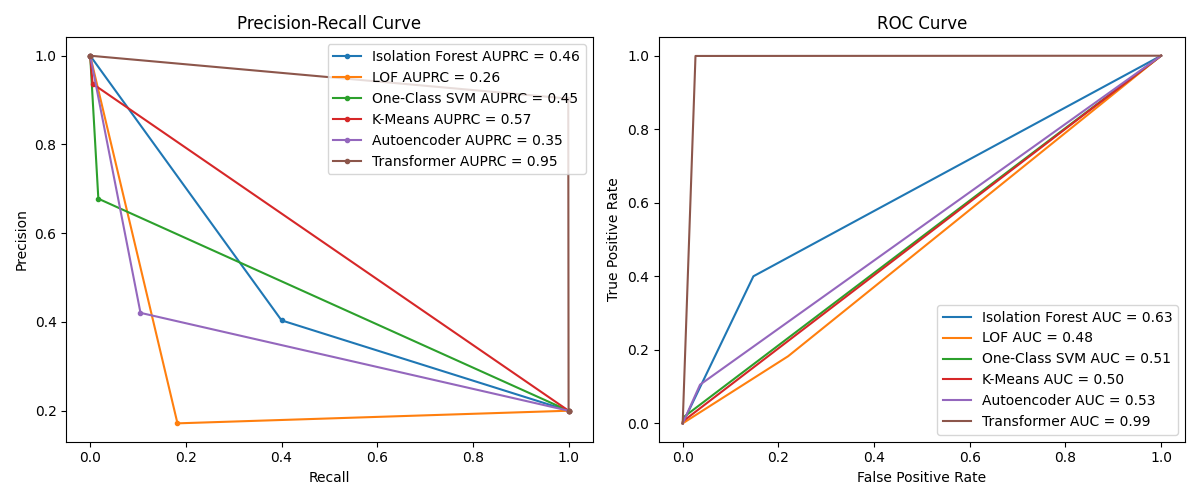
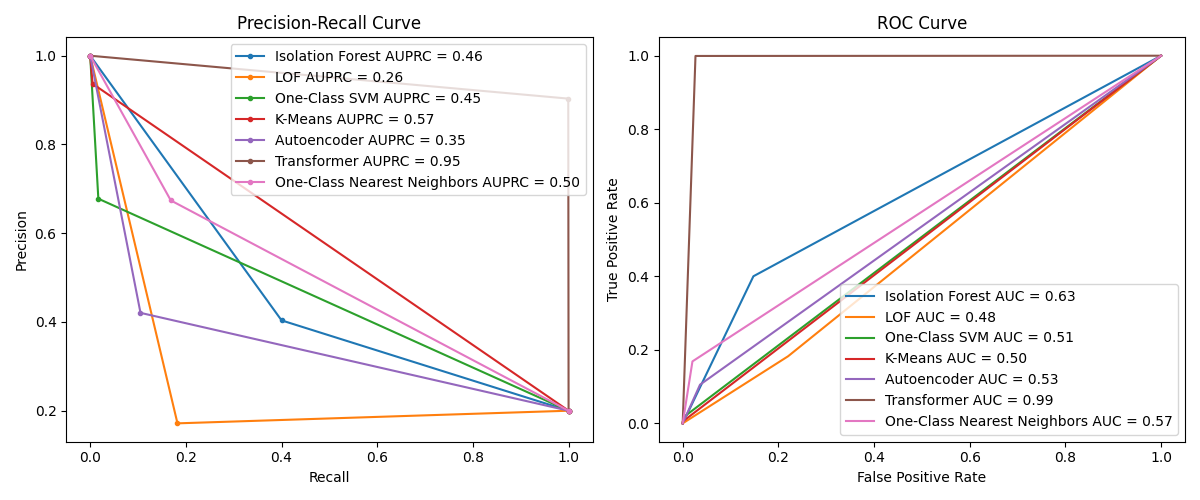
Add One-Class Nearest Neighbours model

diff --git a/anomaly.py b/anomaly.py
@@ -8,7 +8,7 @@ import torch
 from sklearn.cluster import KMeans
 from sklearn.ensemble import IsolationForest
 from sklearn.metrics import classification_report, ConfusionMatrixDisplay, precision_recall_curve, roc_curve, auc
-from sklearn.neighbors import LocalOutlierFactor
+from sklearn.neighbors import LocalOutlierFactor, NearestNeighbors
 from sklearn.svm import OneClassSVM
 from torch import nn
 
@@ -183,6 +183,28 @@ if __name__ == '__main__':
     optimal_threshold, best_f1 = get_optimal_threshold(np.array(all_labels_transformer), np.array(all_probs_transformer))
     preds_transformer = (np.array(all_probs_transformer) >= optimal_threshold).astype(int)
 
+    print(f"Transformer prediction shape: {preds_transformer.shape}")
+
+    start_time = datetime.now()
+    # 7. One-Class Nearest Neighbors
+    # Check if the model has already been trained
+    OCNN_model_path = model_path + 'ocnn.pkl'
+    if os.path.exists(OCNN_model_path):
+        print(f"\nLoading One-Class Nearest Neighbors from {OCNN_model_path}...")
+        ocnn = joblib.load(OCNN_model_path)
+        print(f"One-Class Nearest Neighbors loaded in {(datetime.now() - start_time).seconds} seconds")
+    else:
+        print("\nTraining One-Class Nearest Neighbors...")
+        ocnn = NearestNeighbors(n_neighbors=5, algorithm='auto', metric='minkowski', p=2, n_jobs=-1)
+        ocnn.fit(X_train_scaled)
+        # Save the model
+        joblib.dump(ocnn, OCNN_model_path)
+        print(f"One-Class Nearest Neighbors training completed in {(datetime.now() - start_time).seconds} seconds, predicting...")
+    ocnn_distances, _ = ocnn.kneighbors(X_test_scaled)
+    mean_distances = np.mean(ocnn_distances, axis=1)
+    ocnn_threshold = np.percentile(mean_distances, 95)
+    pred_ocnn = np.where(mean_distances > ocnn_threshold, 1, 0)
+
     values_format = "d"  # The number format to use for the confusion matrix values
     print("\n--- Evaluation Results ---\n")
     plot_path = f'images/{model_name}/'
@@ -233,7 +255,14 @@ if __name__ == '__main__':
                                                              values_format=values_format)
     plt.title("Transformer Confusion Matrix")
     plt.savefig(plot_path + 'Transformercm.png')
-    plt.show()
+
+    # One-Class Nearest Neighbors evaluation
+    print("One-Class Nearest Neighbors:")
+    print(classification_report(y_test, pred_ocnn))
+    cm_ocnn = ConfusionMatrixDisplay.from_predictions(y_test, pred_ocnn, display_labels=["Non-Fraud", "Fraud"],
+                                                      values_format=values_format)
+    plt.title("One-Class Nearest Neighbors Confusion Matrix")
+    plt.savefig(plot_path + 'OCNNcm.png')
 
     plt.show()
 
@@ -268,6 +297,7 @@ if __name__ == '__main__':
     plot_precision_recall(y_test, pred_kmeans, 'K-Means')
     plot_precision_recall(y_test, pred_ae, 'Autoencoder')
     plot_precision_recall(y_test, preds_transformer, 'Transformer')
+    plot_precision_recall(y_test, pred_ocnn, 'One-Class Nearest Neighbors')
     plt.legend()
     plt.subplot(1, 2, 2)
     plot_roc(y_test, pred_if, 'Isolation Forest')
@@ -276,6 +306,7 @@ if __name__ == '__main__':
     plot_roc(y_test, pred_kmeans, 'K-Means')
     plot_roc(y_test, pred_ae, 'Autoencoder')
     plot_roc(y_test, preds_transformer, 'Transformer')
+    plot_roc(y_test, pred_ocnn, 'One-Class Nearest Neighbors')
     plt.legend()
     plt.tight_layout()
     plt.savefig(plot_path + 'PRAndRoc.png')

diff --git a/README.md b/README.md
@@ -543,6 +543,20 @@ Used dataset: https://www.unb.ca/cic/datasets/cic-unsw-nb15.html
 
 ---
 
+### One-Class Nearest Neighbors
+
+|              | precision | recall | f1-score | support |
+|--------------|-----------|--------|----------|---------|
+| 0.0          | 0.82      | 0.98   | 0.90     | 71666   |
+| 1.0          | 0.67      | 0.17   | 0.27     | 17917   |
+| accuracy     |           |        | 0.82     | 89583   |
+| macro avg    | 0.75      | 0.57   | 0.58     | 89583   |
+| weighted avg | 0.79      | 0.82   | 0.77     | 89583   |
+
+![covariance matrix](images/cic-unsw-nb15/OCNNcm.png)
+
+---
+
 ### PR + ROC Curves
 
 ![PR+Roc.png](images/cic-unsw-nb15/PRAndRoc.png)
@@ -737,7 +751,9 @@ I made the live prediction chart work with the data generator.
 In this new version I switched to a line chart, to make the models easier to distinguish.  
 I indicate whether it's an anomaly or not by changing the color of the point (red for anomalies, green for benign data).  
 
-![Fixed live prediction chart](images/documentation/LiveMonitorPageFixed.png)
+![Fixed live prediction chart](images/documentation/LiveMonitorPageFixed.png)  
+
+I added a One-Class Nearest Neighbors model to the project, to test how it performs compared to the other models on high-dimensional data.  
 
 ### Next week's goals
 
